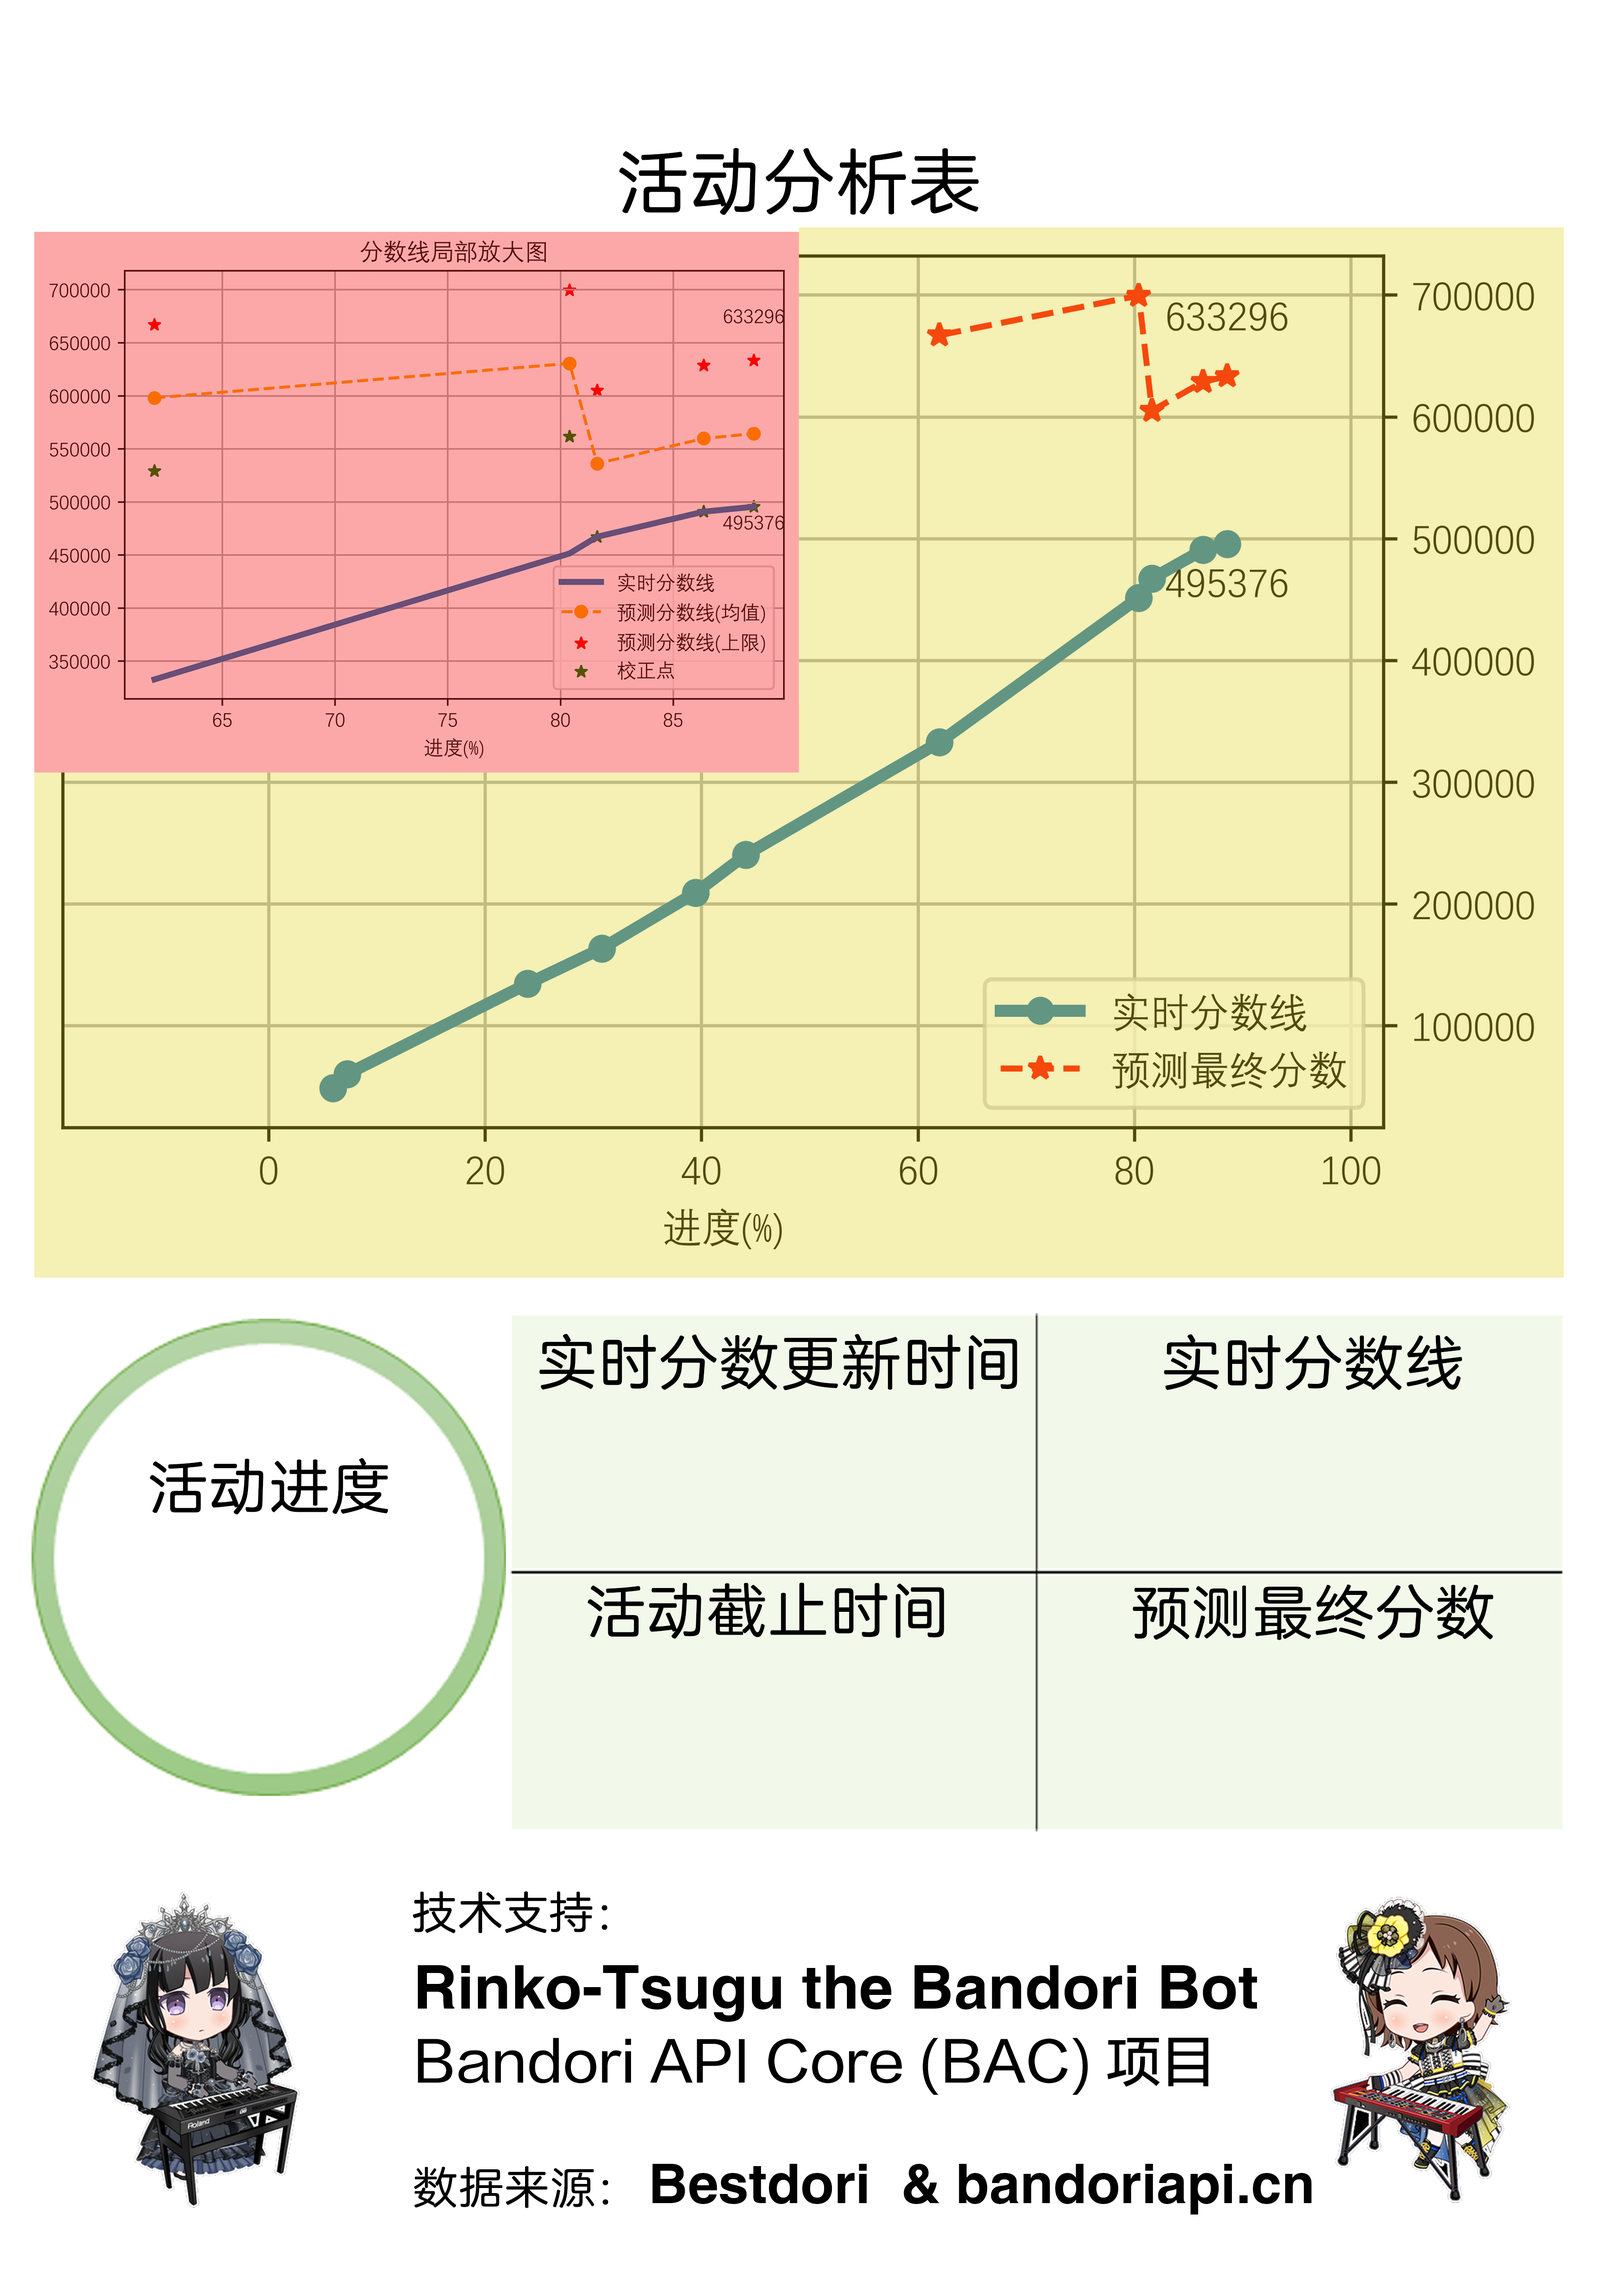
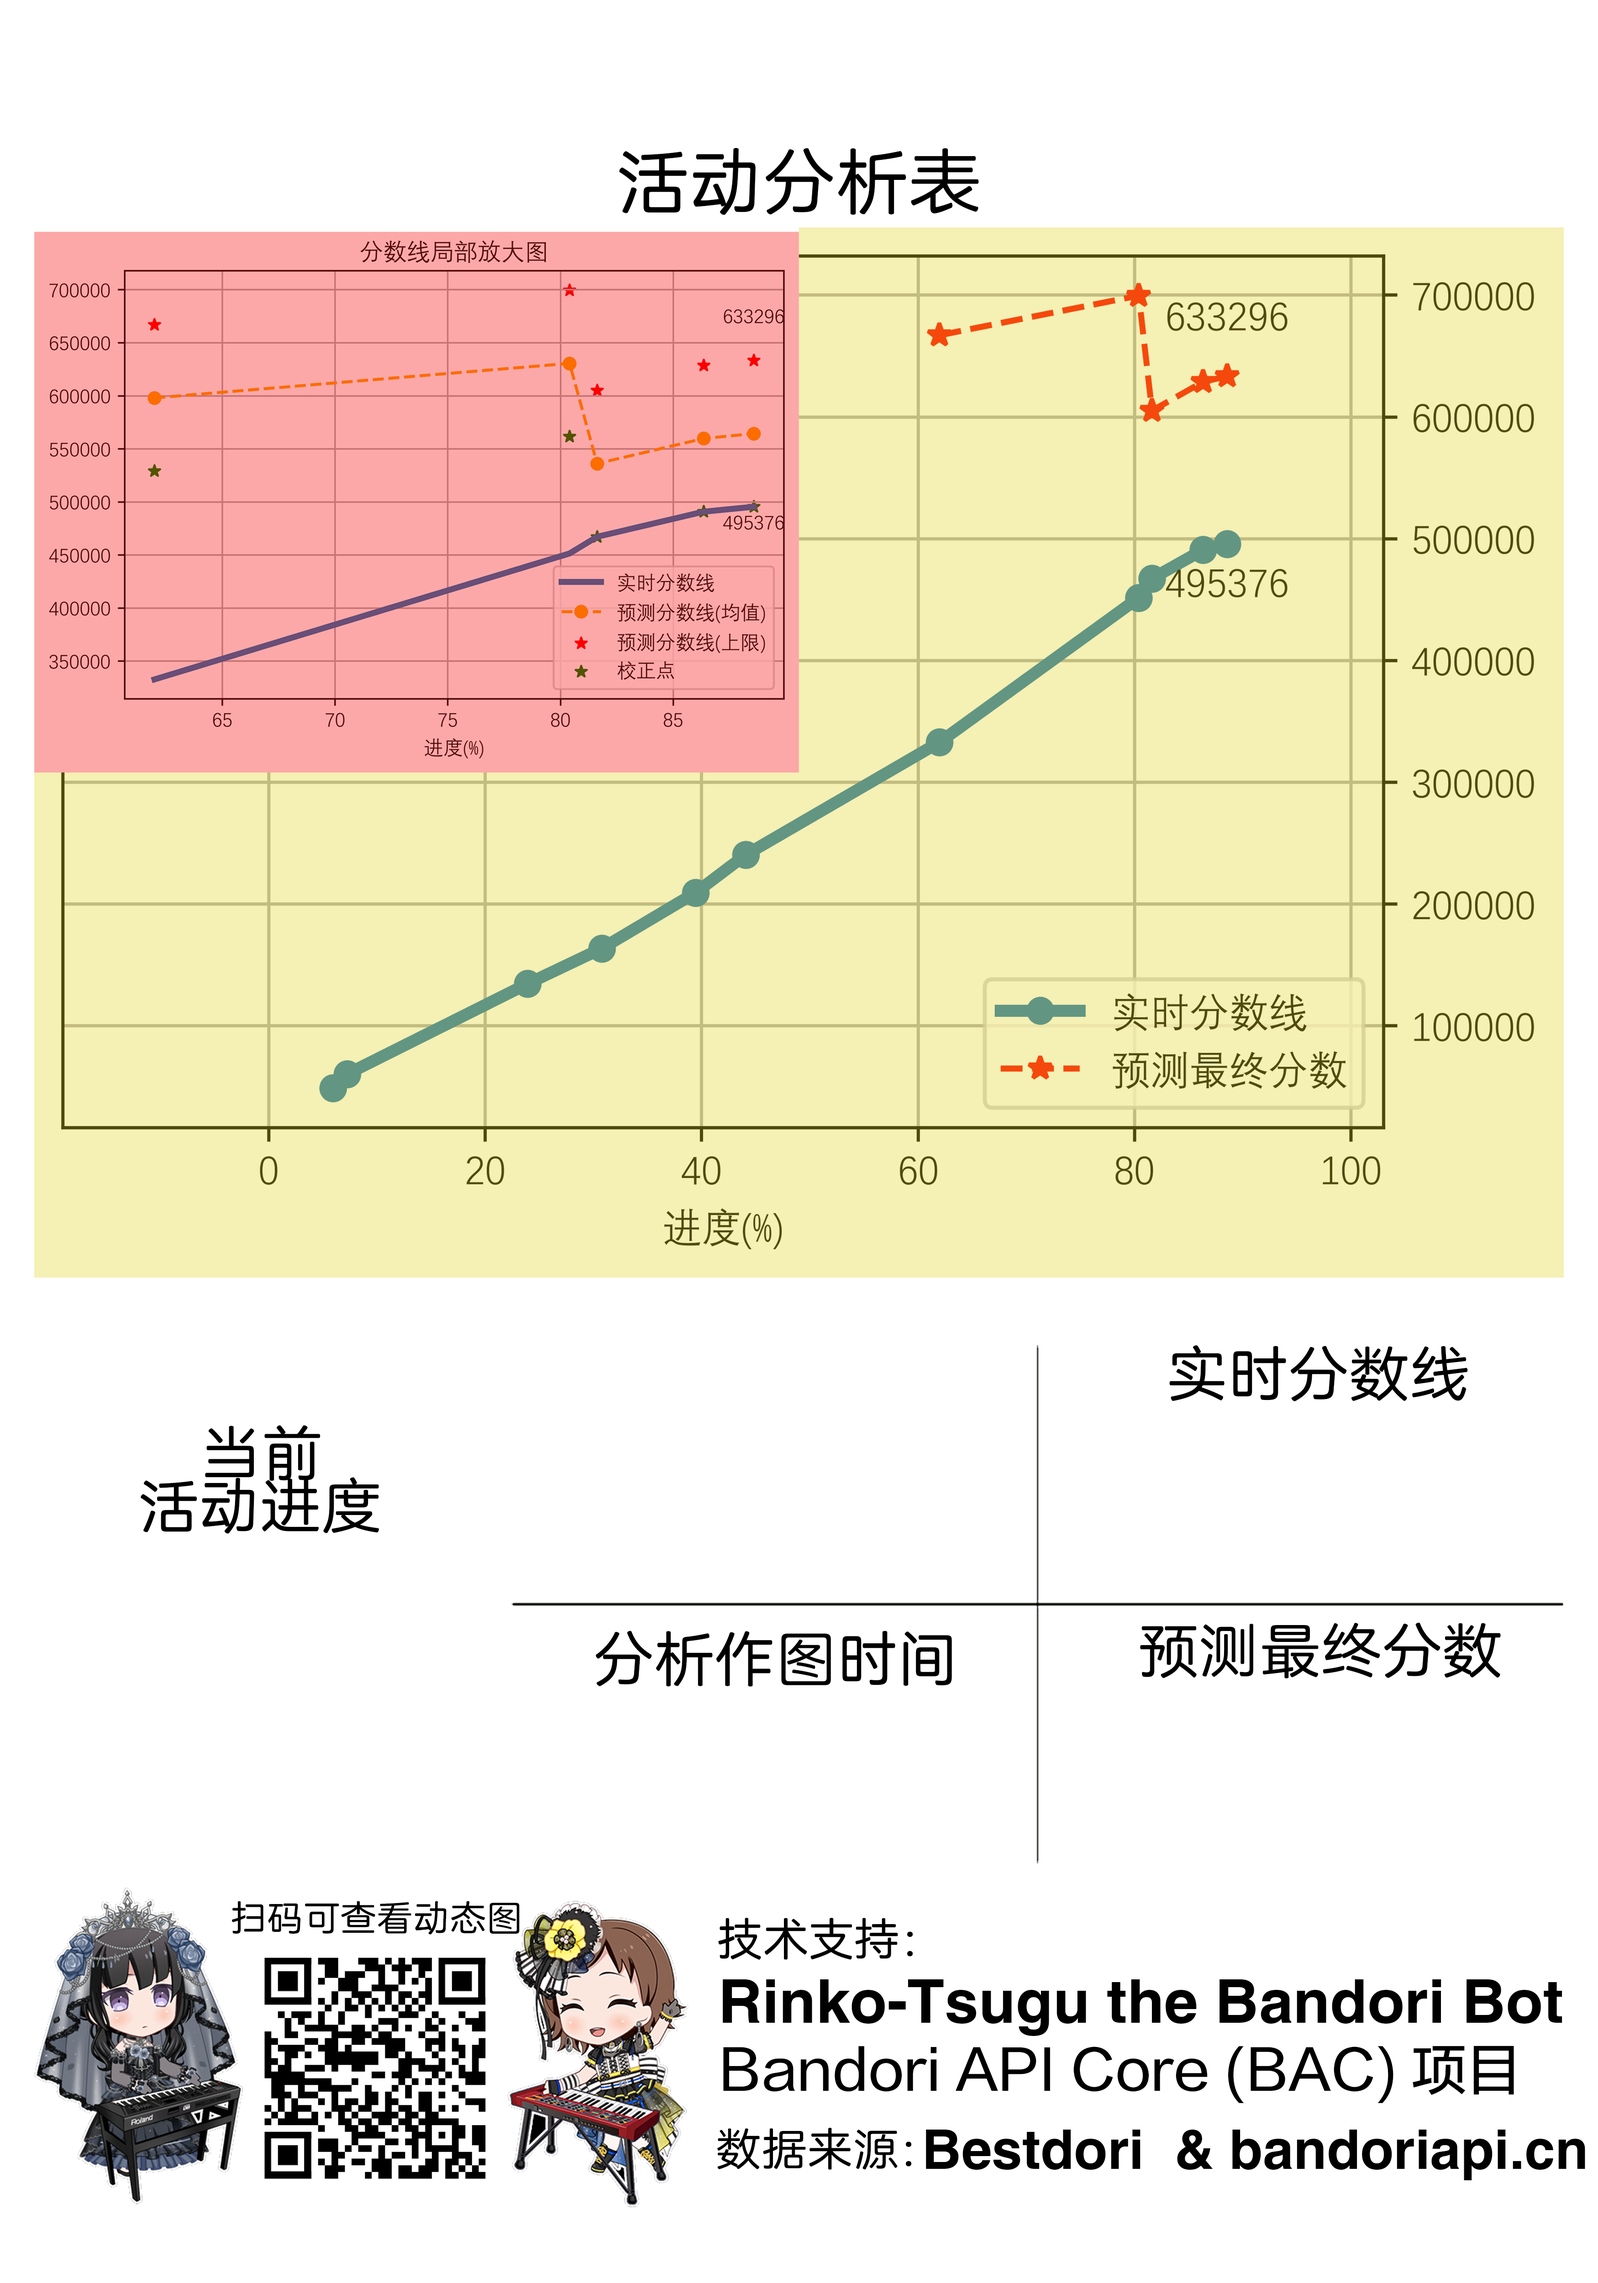
更新（适用于常态化）

diff --git a/GraphDraw.py b/GraphDraw.py
@@ -20,34 +20,37 @@ def main(eventNumber,rankType,areacode,basePath,JsonPath):
         dateArray = datetime.datetime.fromtimestamp(x)
         return dateArray.strftime("%m/%d %H:%M:%S")
     
-    def basicGet(eventNumber,rankType):
+    def basicGet(eventNumber,rankType,areacode):
         hd={'User_Agent':'Mozilla/5.0 (Windows NT 6.1; WOW64) AppleWebKit/537.1 (KHTML, like Gecko) Chrome/22.0.1207.1 Safari/537.1'}
         url='http://bandoriapi.cn/Query/Event/eventDataTracker/'+str(areacode)+'/'+str(eventNumber)+'/'+str(rankType)
         eventData=requests.get(url,headers=hd).text
         eventDict=json.loads(eventData)
-        eventName=eventDict['Data']['eventName'][3]
-        eventStart=int(eventDict['Data']['startAt'][3])/1000
-        eventEnd=int(eventDict['Data']['endAt'][3])/1000
+        eventName=eventDict['Data']['eventName'][areacode]
+        eventStart=int(eventDict['Data']['startAt'][areacode])/1000
+        eventEnd=int(eventDict['Data']['endAt'][areacode])/1000
         return eventName,eventStart,eventEnd
         
     def dataTrans(eventNumber,AreaCode,enum,etp):
         jsondir=JsonPath+str(AreaCode)+"/"+"e"+str(enum)+"/"+"t"+str(etp)+"/"+"event.json" 
-        predictJson=open(jsondir)
-        preDict=json.load(predictJson)
-        pctList=[]
-        ptList=[]
-        slpList=[]
-        ufinList=[]
-        finList=[]
-        bfinList=[]
-        for items in preDict:
-            pctList.append(items['PCT'])
-            ptList.append(items['REALY'])
-            slpList.append(items['SLPSLP'])
-            ufinList.append(items['UFIN'])
-            finList.append(items['FIN'])
-            bfinList.append(items['BFIN'])
-        return pctList,ptList,slpList,ufinList,finList,bfinList
+        if not os.path.exists(jsondir):
+            noptHandle(etp)
+        else:
+            predictJson=open(jsondir)
+            preDict=json.load(predictJson)
+            pctList=[]
+            ptList=[]
+            slpList=[]
+            ufinList=[]
+            finList=[]
+            bfinList=[]
+            for items in preDict:
+                pctList.append(items['PCT'])
+                ptList.append(items['REALY'])
+                slpList.append(items['SLPSLP'])
+                ufinList.append(items['UFIN'])
+                finList.append(items['FIN'])
+                bfinList.append(items['BFIN'])
+            return pctList,ptList,slpList,ufinList,finList,bfinList
     
     def graphDraw(pctList,ptList,slpList,ufinList,finList,bfinList):    
         plt.rcParams['savefig.dpi'] = 600
@@ -86,7 +89,7 @@ def main(eventNumber,rankType,areacode,basePath,JsonPath):
         fig.savefig('resources/ring.png',dpi=450, transparent=True, bbox_inches='tight')
         plt.close() 
         
-        if  pctList[-1]>=85:
+        if  pctList[-1]>=75:
             plt.figure().add_subplot(111)
             plt.ticklabel_format(style='plain', axis='y')
             plt.xlabel('进度(%)')
@@ -96,10 +99,10 @@ def main(eventNumber,rankType,areacode,basePath,JsonPath):
             plt.scatter(pctList[-5:],ufinList[-5:],color='red',marker='*')
             plt.scatter(pctList[-5:],finList[-5:],color='orange',marker='o')
             plt.scatter(pctList[-5:],bfinList[-5:],color='green',marker='*')
-            plt.text(pctList[-1],ufinList[-1]*1.02,'%.0f'%finList[-1],ha = 'center',va = 'bottom')  
+            plt.text(pctList[-1],ufinList[-1]*1.02,'%.0f'%ufinList[-1],ha = 'center',va = 'bottom')  
             plt.text(pctList[-1],finList[-1],'%.0f'%finList[-1],ha = 'center',va = 'bottom')    
             plt.text(pctList[-1],ptList[-1]*0.95,'%.0f'%ptList[-1],ha = 'center',va = 'bottom')  
-            plt.legend(['实时分数线','预测分数线(均值)','预测分数线(上限)','校正点'],loc='upper left')
+            plt.legend(['实时分数线','预测分数线(上限)','预测分数线(均值)','校正点'],loc='upper left')
             plt.savefig('resources/Detailchart.png', dpi=600, bbox_inches='tight')
             plt.close()  
             able=1
@@ -109,7 +112,7 @@ def main(eventNumber,rankType,areacode,basePath,JsonPath):
     
     def picDraw(pctList,ptList,slpList,ufinList,finList,bfinList,eventName,eventStart,eventEnd,rankType,able,basePath):
         rankList=['[T 100]','[T1000]','[T2000]']
-        rankList2=['e100','e1k','e2k']
+        flist=['e100.png','e1k.png','e2k.png']
         progress=int(((time.time()-eventStart)/(eventEnd-eventStart)*100))
         if progress>100:
             progress=100
@@ -123,7 +126,7 @@ def main(eventNumber,rankType,areacode,basePath,JsonPath):
         ptTime=timestamp_full(ptTimestamp)
         print('正在生成<',eventName,'>'+rankList[rankType]+'分数线图片')    
        
-        im = Image.open("resources/background70.png")
+        im = Image.open("resources/background.png")
         
         box=(75,500,3425,2810)
         chart1= Image.open('resources/chart.png')
@@ -169,12 +172,12 @@ def main(eventNumber,rankType,areacode,basePath,JsonPath):
         
         out=Image.alpha_composite(im,txt)
         out=out.resize((1750,2500))
-        filename=basePath+rankList2[rankType]+'.png'
+        filename=basePath+flist[rankType]
         out.save(filename)
 
             
     def noptHandle(eventName,basePath,rankType=4):
-        im = Image.open("resources/noPt70.png")
+        im = Image.open("resources/noPt.png")
         txt=Image.new('RGBA', im.size, (0,0,0,0))
         fnt=ImageFont.truetype("resources/HYZhengYuan-55W.ttf", 50)
         fnt2=ImageFont.truetype("resources/HYZhengYuan-55W.ttf", 20)
@@ -183,16 +186,16 @@ def main(eventNumber,rankType,areacode,basePath,JsonPath):
         d.text((titlex,100),'《'+eventName+'》',font=fnt, fill=(0,0,0,255))
         d.text((450,500),'制图时间：'+timestamp_full(time.time()),font=fnt2, fill=(0,0,0,255))
         out=Image.alpha_composite(im,txt)
+        flist=['e100.png','e1k.png','e2k.png']
         if rankType==4:
-            for filename0 in ['e100.png','e1k.png','e2k.png']:
+            for filename0 in flist:
                 filename=basePath+filename0
                 out.save(filename)
         else:
-            flist=['e100.png','e1k.png','e2k.png']
             filename=basePath+flist[rankType]
             out.save(filename)
     
-    (eventName,eventStart,eventEnd)=basicGet(eventNumber,rankType)
+    (eventName,eventStart,eventEnd)=basicGet(eventNumber,rankType,areacode)
     try:
         (pctList,ptList,slpList,ufinList,finList,bfinList)=dataTrans(eventNumber,areacode,eventNumber,rankType)
         if len(pctList)>=3:
